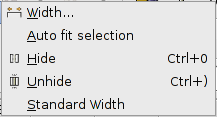
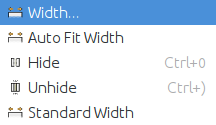
docs update and fix for implict ')' for array functions
2012-07-25  Andreas J. Guelzow <aguelzow@pyrshep.ca>

	* src/wbc-gtk-edit.c (wbcg_edit_finish): reset the expr_txt pointer
	when changing the txt pointer. Fixes #680548

2012-07-25  Andreas J. Guelzow <aguelzow@pyrshep.ca>

	* figures/menu-format-column.png: updated
	* figures/menu-format-labelled.png: updated
	* gui-menus.xml: updated

diff --git a/src/wbc-gtk-edit.c b/src/wbc-gtk-edit.c
@@ -254,9 +254,10 @@ wbcg_edit_finish (WBCGtk *wbcg, WBCEditResult result,
 								 NULL, &tmp_err);
 				parse_error_free (&tmp_err);
 
-				if (texpr_test != NULL)
+				if (texpr_test != NULL) {
 					txt = free_txt = tmp;
-				else
+					expr_txt = gnm_expr_char_start_p (txt);
+				} else
 					g_free (tmp);
 			}
 
